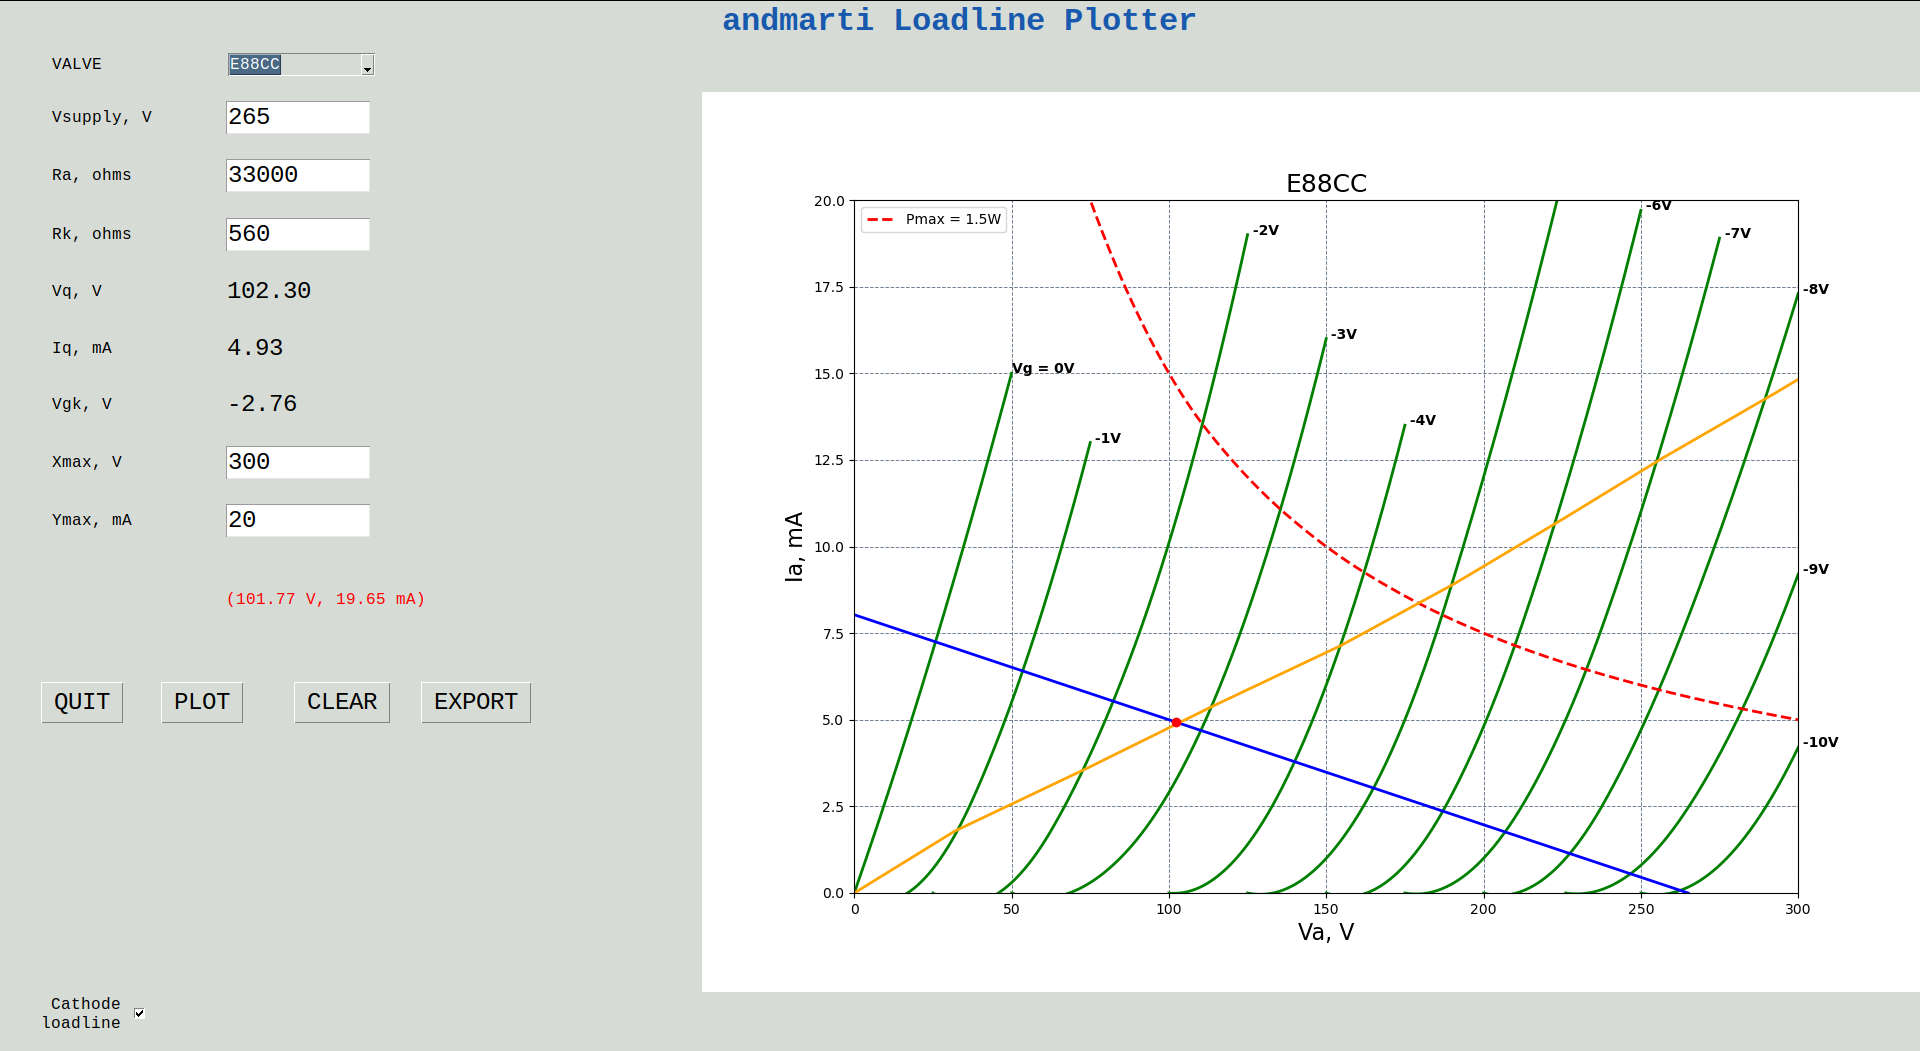
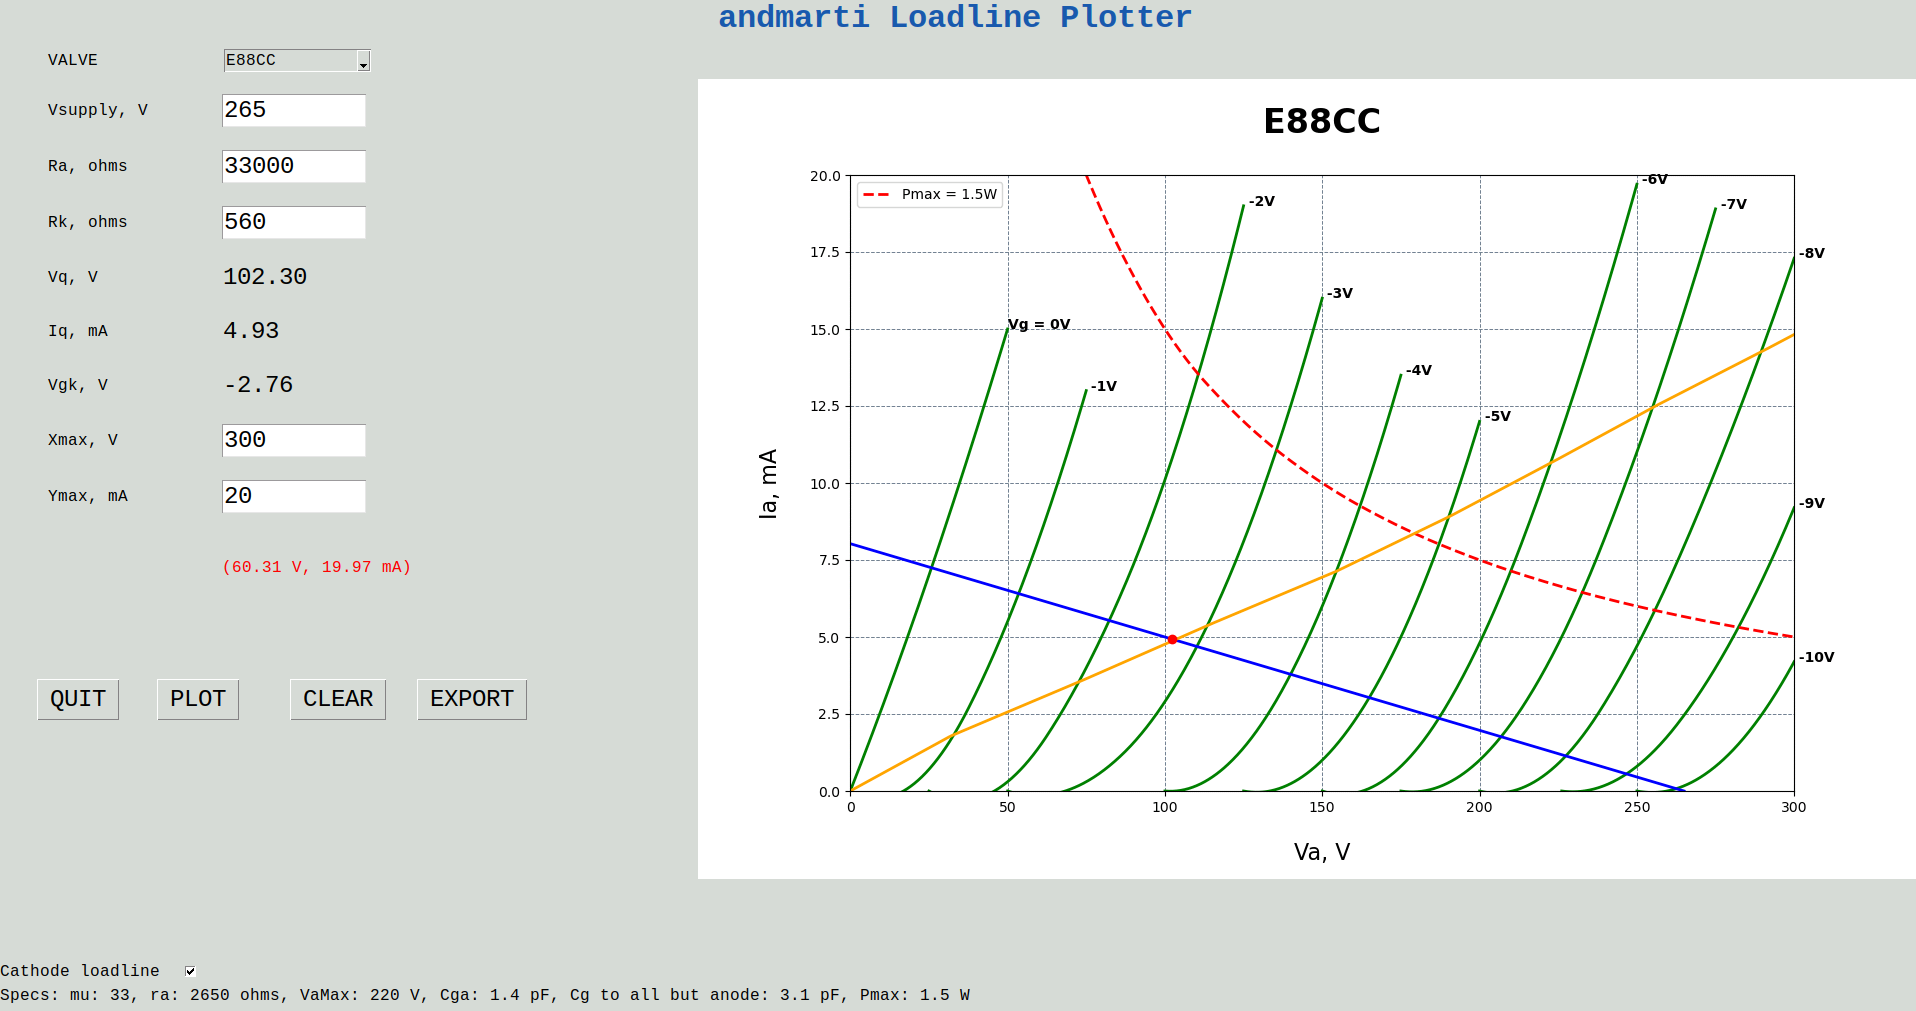
Update screenshot

diff --git a/plotter.py b/plotter.py
@@ -23,7 +23,7 @@ DEFAULT_YMAX = 10
 class mclass:
     def __init__(self,  window):
         self.window = window
-        self.fig = Figure(figsize=(13,9))
+        self.fig = Figure(figsize=(13,8))
         self.ax = self.fig.add_subplot(111)
 
         # read valve specs and grid lines from csv
@@ -99,13 +99,12 @@ class mclass:
         self.etr_Ymax = Entry(window, textvariable=self.str_Ymax, font=('Courier New', 18), width=10)
         self.etr_Ymax.grid(row=9, column=1, rowspan=1, sticky=W, padx=2, pady=5)
 
-        # Read XMAX and YMAX from specs
-        self.updateMaxXY()
 
         # coordinates
         self.txt_coordinates = Text(bd=0, bg=window['bg'], fg='red', height=1, wrap="none", state="normal", font=('Courier New', 12), background=self.window['bg'])
         self.txt_coordinates.grid(row=12, column=1, columnspan=2, rowspan=1, sticky=W, padx=2, pady=5)
         self.txt_coordinates.config(highlightthickness = 0, borderwidth=0)
+        self.txt_coordinates.config(state=DISABLED)
 
         # title
         self.title = Label(window, text='andmarti Loadline Plotter', fg='#1C5AAC', font=('Courier New', 24, 'bold'))
@@ -113,20 +112,29 @@ class mclass:
 
         # plot
         self.canvas = FigureCanvasTkAgg(self.fig, master=self.window)
-        self.canvas.get_tk_widget().grid(row=1, column=4, rowspan=40, columnspan=3, sticky=W, padx=0, pady=50)
+        self.canvas.get_tk_widget().grid(row=1, column=4, rowspan=42, columnspan=3, sticky=W, padx=0, pady=40)
         self.canvas.mpl_connect('motion_notify_event', self.motion_hover)
         self.ax.grid(which="both", axis='both', color='slategray', linestyle='--', linewidth=0.7)
-        self.ax.set_ylabel('Ia, mA', fontsize=16, loc='center')
-        self.ax.set_xlabel('Va, V', fontsize=16, loc='center')
+        self.ax.set_ylabel('Ia, mA', fontsize=16, loc='center', labelpad=20)
+        self.ax.set_xlabel('Va, V', fontsize=16, loc='center',  labelpad=20)
 
+        # bottom frame
         fm = Frame(window)
-        self.lbl_cathodeloadline = Label(fm, text="Cathode loadline", font=('Courier New', 12), wraplength=150, justify='right', background=self.window['bg'])
-        self.lbl_cathodeloadline.grid(row = 0, column = 0)
+        self.lbl_cathodeloadline = Label(fm, text="Cathode loadline", font=('Courier New', 12), background=self.window['bg'])
+        self.lbl_cathodeloadline.grid(row = 0, column = 0, pady=0, sticky='w')
         self.chk_cathodeloadline_var = IntVar()
-        self.chk_cathodeloadline = Checkbutton(fm, variable=self.chk_cathodeloadline_var, onvalue = 1, offvalue = 0, height=1, font=('Courier New', 12), command=self.chk_cathodeloadline_click, background=self.window['bg'], width=3, anchor="w")
+        self.chk_cathodeloadline = Checkbutton(fm, variable=self.chk_cathodeloadline_var, onvalue = 1, offvalue = 0, height=1, font=('Courier New', 12),
+                                               command=self.chk_cathodeloadline_click, background=self.window['bg'], width=1, anchor="w")
         self.chk_cathodeloadline.select()
-        self.chk_cathodeloadline.grid(row = 0, column = 1)
-        fm.grid(row=40, column=0, padx=0, pady=0)
+        self.chk_cathodeloadline.grid(row = 0, column = 1, columnspan=1, sticky='W')
+        # valve specs
+        self.str_specs = StringVar()
+        self.str_specs.set("Specs: ")
+        self.lbl_specs = Label(fm, textvariable=self.str_specs, font=('Courier New', 12), background=self.window['bg'])
+        self.lbl_specs.grid(row = 1, column = 0, columnspan=62, sticky='W')
+
+        #r = self.window.grid_size()[0]
+        fm.grid(row=45, column=0, padx=2, pady=40, columnspan=10, sticky='W')
 
         #BUTTONS
         self.button_quit = Button(window, text="QUIT", command=self.quit, font=('Courier New', 18))
@@ -151,6 +159,9 @@ class mclass:
         self.etr_Rk.bind("<Return>", self.parameters_changed)
         self.etr_Ymax.bind("<Return>", self.parameters_changed)
         #end of ui
+        # Read XMAX and YMAX from specs
+        #self.updateMaxXY()
+        self.valve_changed(None)
 
     def parameters_changed(self, event):
         self.change_state()
@@ -158,7 +169,18 @@ class mclass:
     def valve_changed(self, event):
         self.updateMaxXY()
         self.change_state()
+        valve = self.str_valve.get()
+        d=self.specs.loc[self.specs['valve']  == valve ]
+        self.str_specs.set("Specs: mu: %s, ra: %s ohms, VaMax: %s V, Cga: %s pF, Cg to all but anode: %s pF, Pmax: %s W" % (
+            d['mu'].iloc[0],
+            d['ra'].iloc[0],
+            d['VaMax'].iloc[0],
+            d['Cga'].iloc[0],
+            d['CgAEA'].iloc[0],
+            d['Pmax'].iloc[0]
+            ))
 
+    # upodate xmax and ymax from valve specs
     def updateMaxXY(self):
         valve = self.str_valve.get()
         d=self.specs.loc[self.specs['valve']  == valve ]
@@ -172,8 +194,8 @@ class mclass:
     def clear_chart(self):
         self.ax.clear() # clear previous plot !!!!
         self.ax.grid(which="both", axis='both', color='slategray', linestyle='--', linewidth=0.7)
-        self.ax.set_ylabel('Ia, mA', fontsize=16, loc='center')
-        self.ax.set_xlabel('Va, V', fontsize=16, loc='center')
+        self.ax.set_ylabel('Ia, mA', fontsize=16, loc='center', labelpad=20)
+        self.ax.set_xlabel('Va, V', fontsize=16, loc='center',  labelpad=20)
         self.fig.canvas.draw()
         self.fig.canvas.flush_events()
 
@@ -220,10 +242,12 @@ class mclass:
 
     def motion_hover(self, event):
         if event.inaxes is not None:
+            self.txt_coordinates.config(state=NORMAL)
             x = format(event.xdata, '.2f')
             y = format(event.ydata, '.2f')
             self.txt_coordinates.delete('1.0', END)
             self.txt_coordinates.insert(END, "(%s V, %s mA)" % (x, y))
+            self.txt_coordinates.config(state=DISABLED)
 
     # function to plot loadline or refresh plot
     def change_state(self):
@@ -238,8 +262,10 @@ class mclass:
 
         # print(res)
 
-        ymax = int(self.str_Ymax.get())
-        xmax = int(self.str_Xmax.get())
+        ymax = int(float(self.str_Ymax.get()))
+        xmax = int(float(self.str_Xmax.get()))
+        self.fig.canvas.draw()
+        self.fig.canvas.flush_events()
 
         # select valve
         df = self.df
@@ -247,7 +273,7 @@ class mclass:
         de=df.loc[df['valve']  == valve ]
 
         # plot grid curves
-        self.ax.set_title(valve, fontsize=18)
+        self.ax.set_title(valve, fontsize=24, pad=30, weight='bold')
         self.ax.grid(which="both", axis='both', color='slategray', linestyle='--', linewidth=0.7)
         #self.ax.grid(which="both", axis='both', color='slategray', linestyle='--', linewidth=0.7)
         #self.ax.set_ylabel('Ia, mA', fontsize=16, loc='center')
